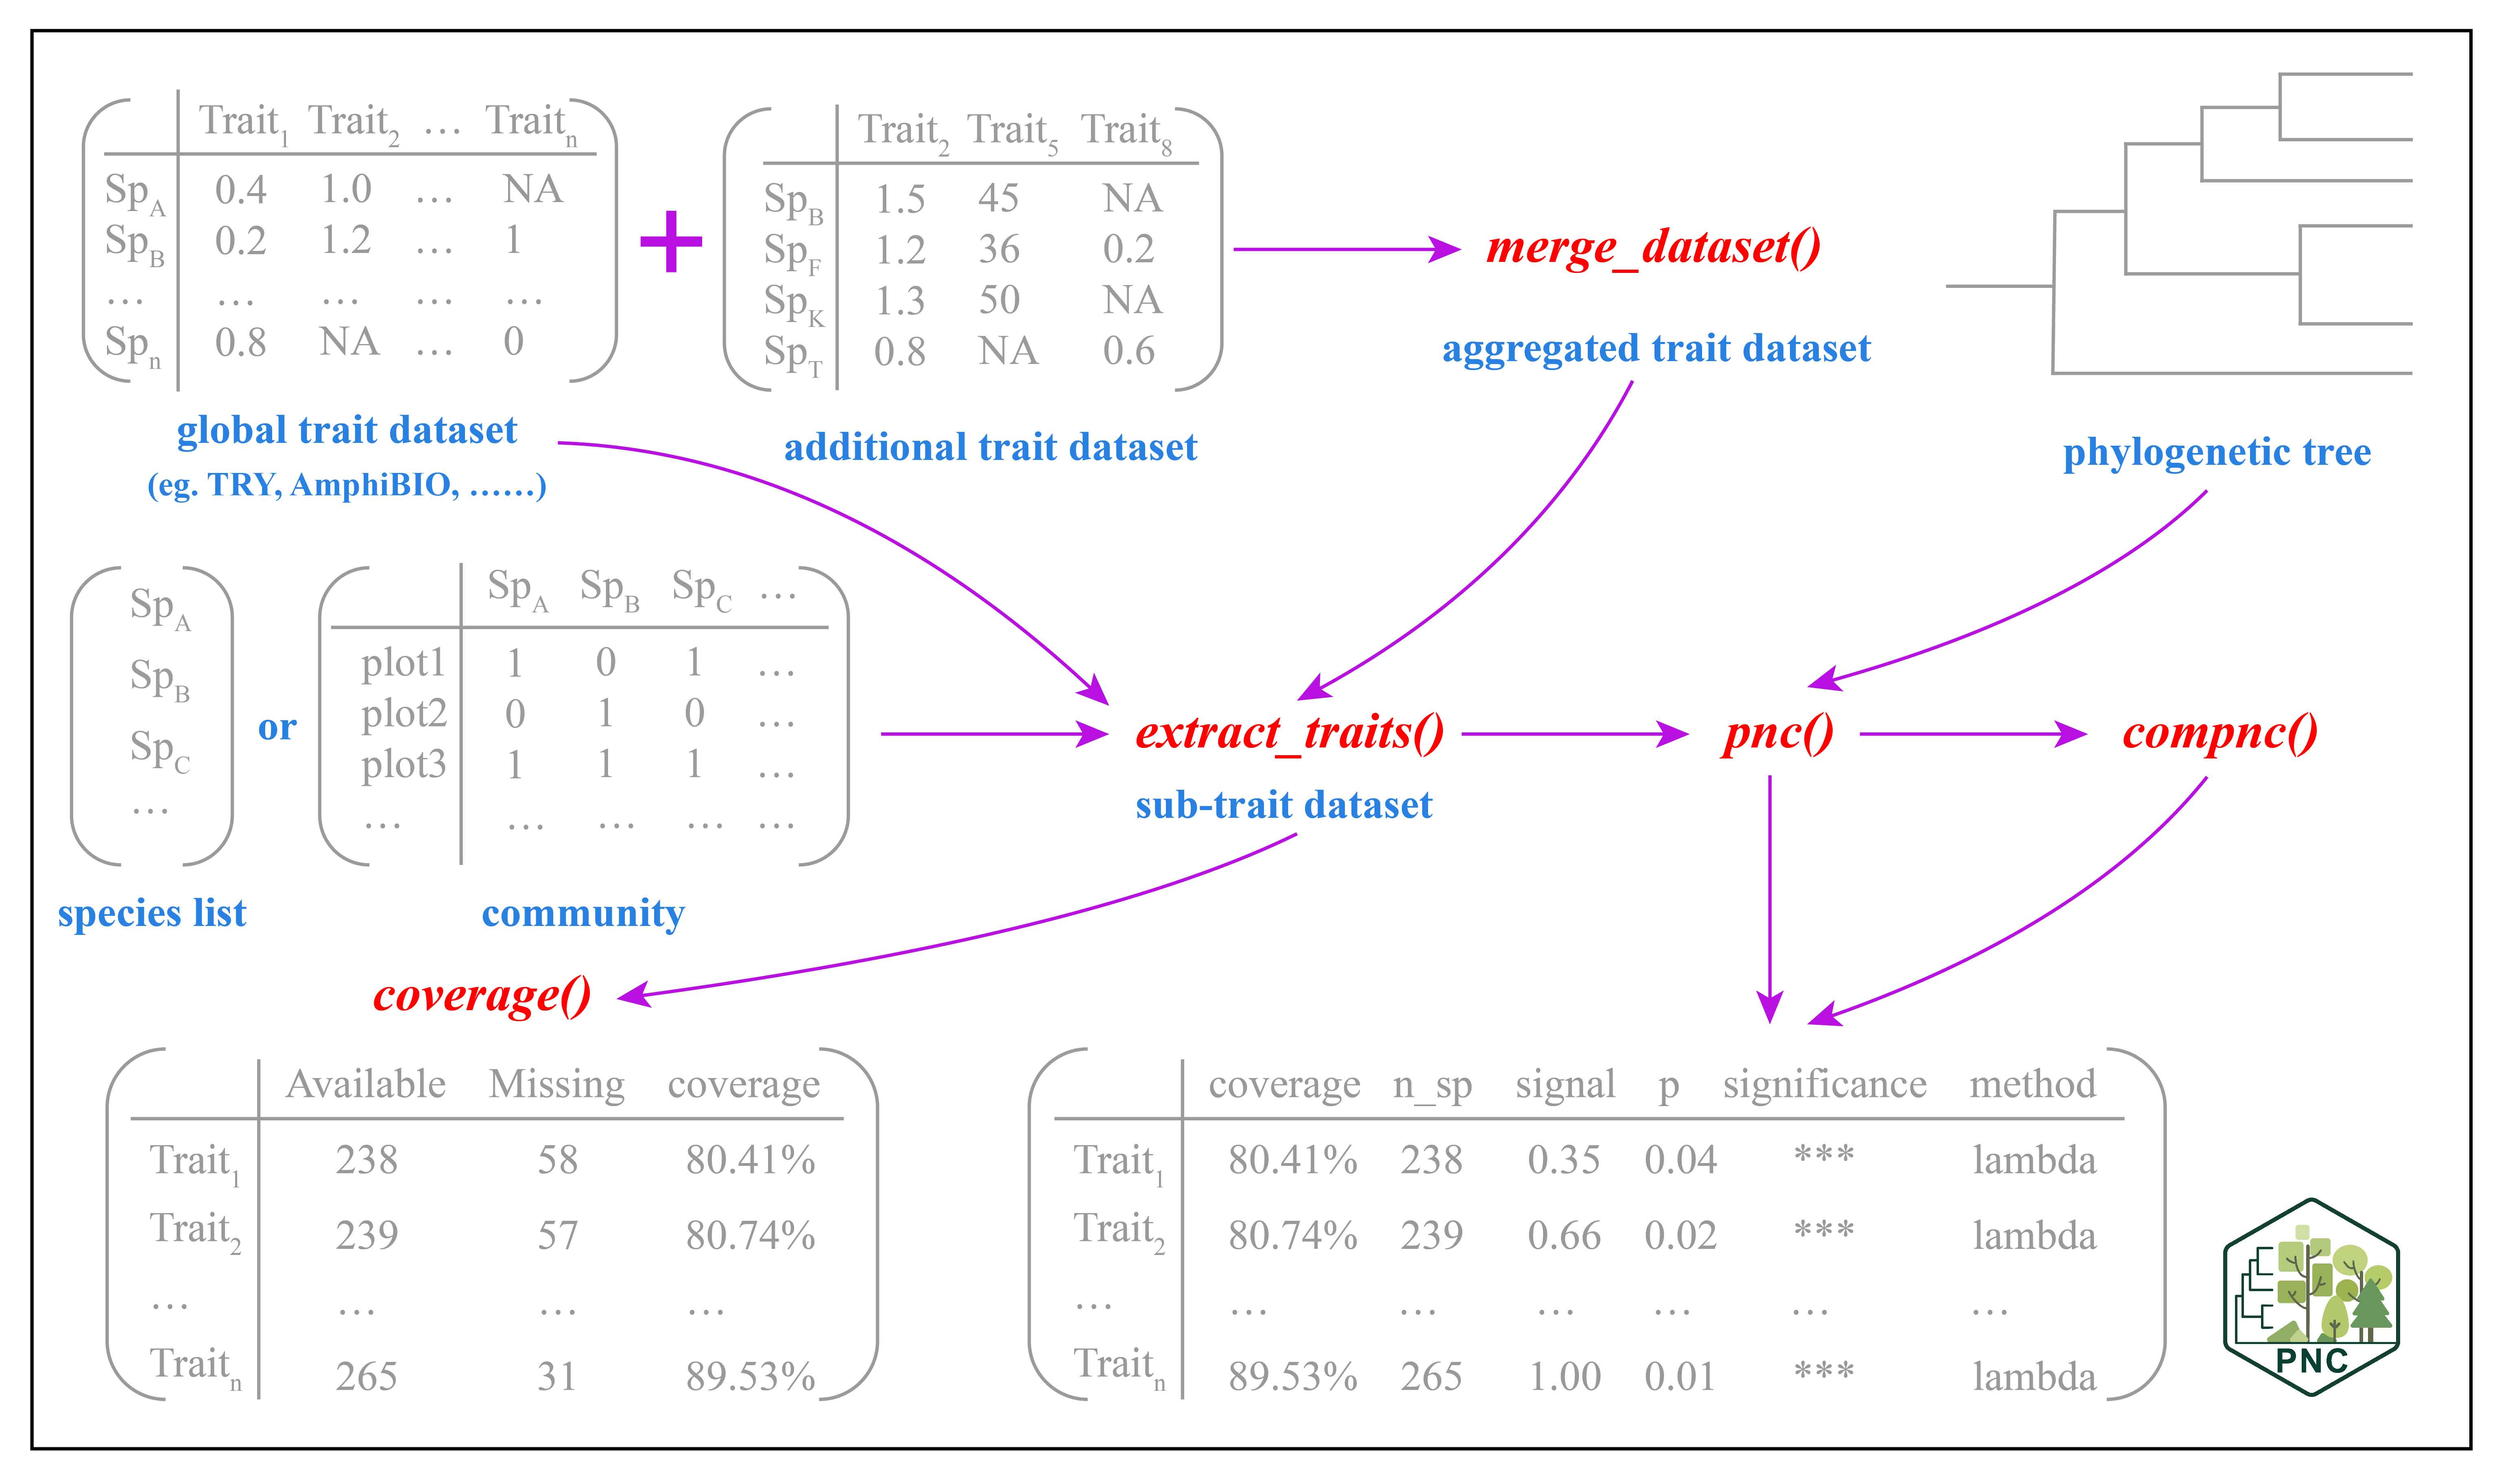
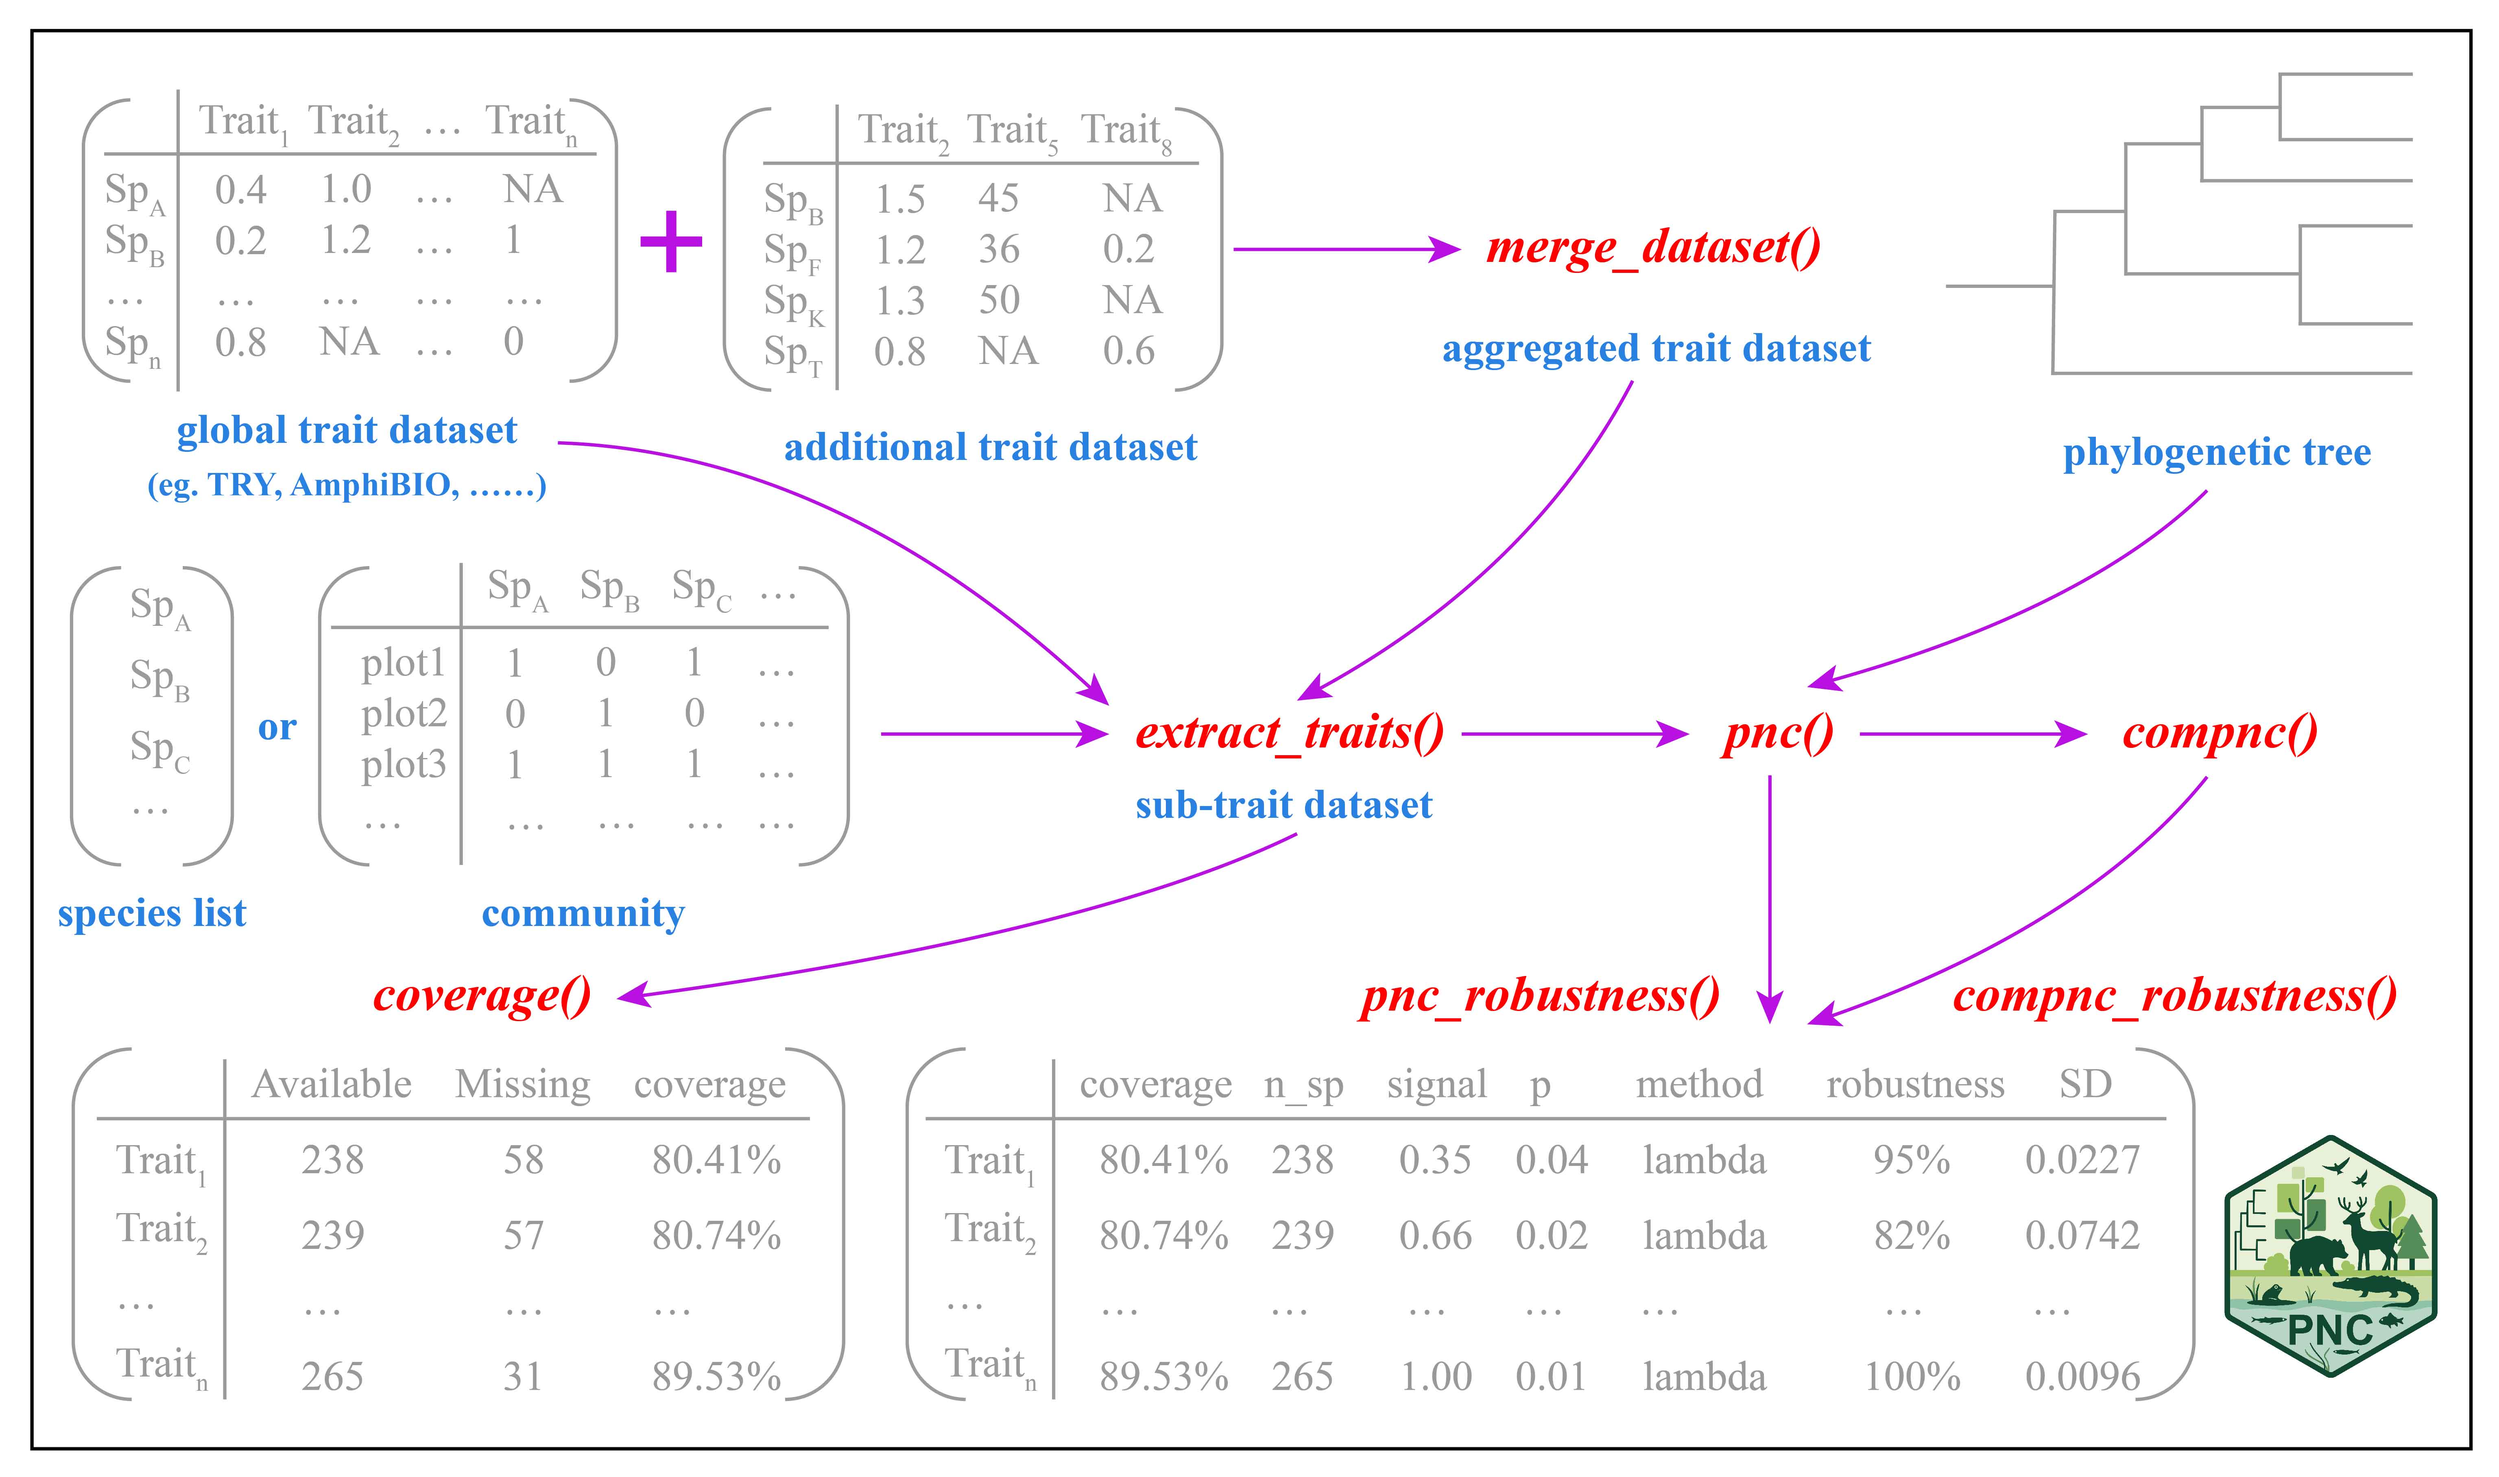
v0.1.0

diff --git a/README.md b/README.md
@@ -24,7 +24,7 @@ Get started with PNC to bring standardized, automated phylogenetic niche conserv
 ## Main functions of PNC and their descriptions
 
 | Name                      | Type     | Description                                                                                                                                                                                                                                                                         |
-|---------------------------|----------|-------------------------------------------------------------------------------------------------------------------------------------------------------------------------------------------------------------------------------------------------------------------------------------|
+|-------------|-------------|----------------------------------------------|
 | **AmphiBIO**              | Database | A comprehensive global database of amphibian natural history traits. It provides 12 continuous traits related to ecology, morphology, and reproduction for over 6,500 species across all orders (Anura, Caudata, Gymnophiona), 61 families, and 531 genera (Oliveira et al., 2017). |
 | **AVONET**                | Database | A comprehensive trait database for extant avian species, providing detailed morphological information through 11 continuous traits covering 11,009 bird species worldwide (Tobias et al., 2022).                                                                                    |
 | **BCI**                   | Database | A 50-hectare forest ecosystem dataset from Barro Colorado Island, comprising comprehensive species inventories, phylogenetic trees at species and genus levels, and community composition matrices (Condit et al., 2019).                                                           |
@@ -33,7 +33,7 @@ Get started with PNC to bring standardized, automated phylogenetic niche conserv
 | **HimalayanBirds**        | Database | A dataset providing information on bird species in the Himalayas, including species names, phylogenetic relationships, and community composition across elevation bands (Ding et al., 2021).                                                                                        |
 | **ReptTraits**            | Database | A comprehensive reptilian trait dataset comprising 8 continuous morphological and ecological traits across 12,060 species spanning major reptilian clades (Crocodylia, Testudines, Rhynchocephalia, Amphisbaenia, Sauria, and Serpentes) (Oskyrko et al., 2024).                    |
 | **TRY**                   | Database | A global plant trait database providing species-level datasets with 20 continuous traits widely utilized in ecological and evolutionary research (Kattge et al., 2020).                                                                                                             |
-| **`merge_species_df()`**  | function | Merges two data frames based on the "species" column, automatically handling missing values and inconsistent columns.                                                                                                                                                               |
+| **`merge_dataset()`**     | function | Merges two data frames based on the "species" column, automatically handling missing values and inconsistent columns.                                                                                                                                                               |
 | **`extract_traits()`**    | function | Extracts trait data at the species, genus, or family level from global trait databases.                                                                                                                                                                                             |
 | **`coverage()`**          | function | Provides statistics on trait availability, including the number of missing values and coverage rates.                                                                                                                                                                               |
 | **`pnc()`**               | function | Performs a phylogenetic niche conservatism analysis within a single community, quantifying the phylogenetic signal in trait data. Optional PCA dimensionality reduction and multiple statistical approaches are supported.                                                          |
@@ -48,52 +48,97 @@ Get started with PNC to bring standardized, automated phylogenetic niche conserv
 ### Study case 1
 
 ```{r,class.source = 'fold-show'}
+library(PNC)
+
+# Load dataset
 data("BCI")
 str(BCI)
 data("TRY")
 head(TRY)
 
-# species level
+## species level
+
+# Extract species names
 sp <- colnames(BCI$com)
 sp
+
+# Extract trait data for the specified species from the TRY database
 subtraits <- extract_traits(sp, TRY, rank = "species", traits = c("LA", "LMA", "LeafN", "PlantHeight", "SeedMass", "SSD"))
 head(subtraits)
-coverage(subtraits)
-pnc(subtraits, BCI$phy_species, methods = "lambda", pca_axes = c("PC1", "PC2"))
-pnc_robustness(subtraits, BCI$phy_species, methods = "lambda", n_simulations = 100)
-# compnc(com = BCI$com, subtraits, BCI$phy_species, methods = "lambda", pca_axes = NULL)
 
-# genus level
+# Calculate and display the coverage of the trait data
+coverage(subtraits)
+
+# Perform phylogenetic niche conservatism analysis using the pnc() function
+pnc(subtraits, BCI$phy_species, methods = "lambda", pca_axes = c("PC1", "PC2"))
+
+# Assess the robustness of the phylogenetic signal estimates
+set.seed(123)
+pnc_robustness(subtraits, BCI$phy_species, methods = "lambda", n_simulations = 100)
+
+## genus level
+
+# Extract genus names
 sp2 <- unique(BCI$splist$genus)
+
+# Extract trait data for the specified genera from the TRY database
 subtraits2 <- extract_traits(sp2, TRY, rank = "genus", traits = c("LA", "LMA", "LeafN", "PlantHeight", "SeedMass", "SSD"))
 head(subtraits2)
+
+# Calculate and display the coverage of the trait data
 coverage(subtraits2)
+
+# Perform phylogenetic niche conservatism analysis
 pnc(subtraits2, BCI$phy_genus, methods = "lambda", pca_axes = c("PC1", "PC2"))
+
+# Assess the robustness of the phylogenetic signal estimates at the genus level
+set.seed(123)
 pnc_robustness(subtraits2, BCI$phy_genus, methods = "lambda", n_simulations = 100)
 ```
 
 ### Study case 2
 
 ```{r,class.source = 'fold-show'}
+# Load dataset
 data("HimalayanBirds")
 str(HimalayanBirds)
 data("AVONET")
 head(AVONET)
 
-# species level
+# Extract species names
 sp <- colnames(HimalayanBirds$com)
 sp
+
+# Extract trait data for the specified species from the AVONET database
 subtraits <- extract_traits(sp, AVONET, rank = "species")
 head(subtraits)
+
+# Calculate and display the coverage of the trait data
 coverage(subtraits)
+
+# Perform phylogenetic niche conservatism analysis
 pnc(subtraits, HimalayanBirds$phy_species, methods = "lambda", pca_axes = c("PC1", "PC2"))
+set.seed(123)
+
+# Assess the robustness of the phylogenetic signal estimates 
+pnc_robustness(subtraits,
+               HimalayanBirds$phy_species,
+               methods = "lambda",
+               pca_axes = c("PC1", "PC2"),
+               n_simulations = 100)
+
+# Perform phylogenetic niche conservatism analysis across multiple communities
 compnc(com = HimalayanBirds$com, subtraits, HimalayanBirds$phy_species, methods = "lambda", pca_axes = NULL)
-compnc_robustness(HimalayanBirds$com,
-                  subtraits,
-                  HimalayanBirds$phy_species,
-                  methods = "lambda",
-                  pca_axes = NULL,
-                  n_simulations = 100)
+
+# Assess the robustness of phylogenetic signal estimates across multiple communities
+set.seed(123)
+robust_results <- compnc_robustness(HimalayanBirds$com,
+                                    subtraits,
+                                    HimalayanBirds$phy_species,
+                                    methods = "lambda",
+                                    pca_axes = c("PC1", "PC2"),
+                                    n_simulations = 100)
+robust_results
 ```
 
 ## Reference

diff --git a/NEWS.md b/NEWS.md
@@ -1,2 +1,2 @@
 
-# PNC 0.1.0 (2025-10-22)
+# PNC 0.1.0 (2025-10-25)
